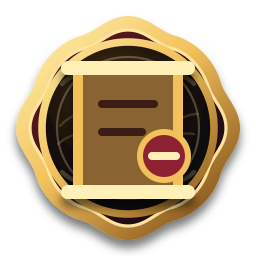
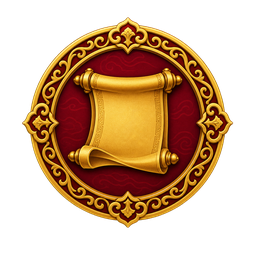
事件美术补改：图标/边框覆盖 + 5 张事件专属插画接线
- 图标/资源/边框原名覆盖：终局/任务/成本/里程/悬赏 图标、驽马/情报/船引 资源图标、战斗边框
- 新增 5 张插画：使用补给/流程中断/流程完成/强行通关/小队攻坚失败
- EventIllustrationPath：RESOURCE_USE 与 PROCESS_INTERRUPT/COMPLETE 分流；FORCED_PASS、SQUAD_FAILED 改走 StreamingAssets 专属插画路径，从 combatIllustrations 数组迁出
- ShowKeyEventIllustration：补 RESOURCE_USE / PROCESS_INTERRUPT 中央卡显示分支
- uitheme_manifest 补 5 条；同步更新接线对照文档为 as-built

diff --git a/Assets/LycheeReplayDemo/LycheeReplayPlayer.cs b/Assets/LycheeReplayDemo/LycheeReplayPlayer.cs
@@ -1644,6 +1644,13 @@ public class LycheeReplayPlayer : MonoBehaviour
             left = ResourceName(payload.resourceType);
             right = "库存更新";
         }
+        else if (type == "RESOURCE_USE")
+        {
+            title = "使用补给";
+            subtitle = team + " 在 " + target + " 施用补给";
+            left = ResourceName(payload.resourceType);
+            right = "资源消耗";
+        }
         else if (type == "PROCESS_START")
         {
             title = "站点处理开始";
@@ -1668,6 +1675,13 @@ public class LycheeReplayPlayer : MonoBehaviour
             left = target;
             right = "继续前进";
             imageIndex = 2;
+        }
+        else if (type == "PROCESS_INTERRUPT")
+        {
+            title = "站点处理中断";
+            subtitle = team + " 在 " + target + " 的处理被打断";
+            left = ActionName(payload.processType);
+            right = "流程受阻";
         }
         else if (type == "SQUAD_DISPATCH")
         {
@@ -1859,10 +1873,10 @@ public class LycheeReplayPlayer : MonoBehaviour
     static bool EventUsesCombatIllustration(string type)
     {
         if (string.IsNullOrEmpty(type)) return false;
-        if (type.StartsWith("FORCED_", StringComparison.Ordinal)) return true;
+        // FORCED_PASS 与 SQUAD_FAILED 现各有专属插画（combat_forced_pass / combat_squad_failed），
+        // 改走 StreamingAssets 插画路径（EventIllustrationPath），不再共用 combatSprites 对抗图集。
         return type == "SQUAD_CLEAR" ||
             type == "SQUAD_CLEAR_SUCCESS" ||
-            type == "SQUAD_FAILED" ||
             type == "OBSTACLE_CLEAR" ||
             type == "GUARD_BREAK";
     }
@@ -3377,10 +3391,15 @@ public class LycheeReplayPlayer : MonoBehaviour
         if (t == "NODE_ENTER") return "Illustrations/card_arrive.png";
         if (t == "TASK_SPAWN" || t == "TASK_REFRESH") return "Illustrations/card_task_post.png";
         if (t == "TASK_COMPLETE") return "Illustrations/card_task_done.png";
-        if (t == "RESOURCE_CLAIM" || t == "RESOURCE_USE") return "Illustrations/card_resource.png";
-        if (t.StartsWith("PROCESS_", StringComparison.Ordinal)) return "Illustrations/card_process.png";
+        if (t == "RESOURCE_USE") return "Illustrations/card_resource_use.png";          // 使用补给：与"获得补给"分流
+        if (t == "RESOURCE_CLAIM") return "Illustrations/card_resource.png";
+        if (t == "PROCESS_INTERRUPT") return "Illustrations/card_process_interrupt.png"; // 流程中断
+        if (t == "PROCESS_COMPLETE") return "Illustrations/card_process_complete.png";    // 流程完成
+        if (t.StartsWith("PROCESS_", StringComparison.Ordinal)) return "Illustrations/card_process.png"; // PROCESS_START/PROGRESS 兜底
+        if (t == "FORCED_PASS_START" || t == "FORCED_PASS_END") return "Illustrations/combat_forced_pass.png"; // 强行通关（专属图，不再共用对抗图集）
         if (t == "SQUAD_DISPATCH") return "Illustrations/card_dispatch.png";
         if (t == "SQUAD_ARRIVE") return "Illustrations/card_squad_arrive.png";
+        if (t == "SQUAD_FAILED") return "Illustrations/combat_squad_failed.png";         // 小队攻坚失败（专属图）
         if (t.StartsWith("SQUAD_", StringComparison.Ordinal)) return "Illustrations/card_squad_arrive.png"; // 其余非对抗小队事件（战术生效等）兜底，避免空白
         if (t == "GUARD_SET") return "Illustrations/card_guard.png";
         if (t == "MATCH_END") return "Illustrations/card_finish.png";

diff --git a/Docs/事件美术补改_生图提示词.md b/Docs/事件美术补改_生图提示词.md
@@ -110,9 +110,10 @@ EN：`a station process completed — sealed lychee baskets loaded onto a covere
 
 ---
 
-## 五、对抗插画（2055×765，D 族）—— **需配合代码 + 场景接线**
+## 五、对抗插画（2055×765，D 族）—— **需配合代码（实际无需场景接线）**
 
-> 现状：对抗结果走场景 `combatIllustrations` 数组，多张结果共用 3 张图、还有一张从没用。补下面两张并扩容接线。
+> 原计划：对抗结果走场景 `combatIllustrations` 数组（多张结果共用 3 张图、还有一张从没用），拟扩容数组 + Inspector 接线。
+> 实际（2026-06-23）：这两张按 **StreamingAssets 原图**交付，改走 `EventIllustrationPath` 插画路径（详见末尾接线对照），**未动 Inspector 数组与场景**。`combat_clash/strategy/result` 三张对抗序列图保持原样。
 
 ### 13. `combat_forced_pass.png` — 强行通关
 中文：信使付"时间税"硬闯关卡，守军无奈侧身放行，红尘扬起、紧张但冲过；区别于"被拒绝"。
@@ -131,13 +132,19 @@ EN：`a squad's assault failing — soldiers retreating in disarray while the ta
 
 ---
 
-## 接线对照（图就位后我改这里）
+## 接线对照（已实现 2026-06-23 · as-built）
 
-| 图 | 处理 |
+> 改动文件仅两处：`Assets/LycheeReplayDemo/LycheeReplayPlayer.cs`、`Assets/StreamingAssets/UITheme/uitheme_manifest.txt`。
+> 全部走 StreamingAssets 运行时加载（`LycheeThemeCache.LoadBytes`），中央弹窗在 `ShowKeyEventIllustration` → `ResolveEventIllustration` → `EventIllustrationPath` 取图。
+
+| 图 | 实际接线 |
 |---|---|
-| 1–9（图标/资源/边框，原名覆盖） | **零改代码**，覆盖即生效 |
-| 10 `card_resource_use` | `EventIllustrationPath` 加 `RESOURCE_USE` 分支 |
-| 11 `card_process_interrupt` | 加 `PROCESS_INTERRUPT` 分支 |
-| 12 `card_process_complete` | 加 `PROCESS_COMPLETE` 分支 |
-| 13/14 对抗图 | 扩 `combatIllustrations` 数组 + 场景 Inspector 接线 + `imageIndex` 逻辑 |
-| 全部新图 | 加进 `uitheme_manifest.txt`（或重新构建自动扫入） |
+| 1–9（图标/资源/边框，原名覆盖） | **零改代码**，覆盖即生效（git 已显示为 modified） |
+| 10 `card_resource_use` | `EventIllustrationPath`：`RESOURCE_USE`→`card_resource_use.png`（与 `RESOURCE_CLAIM`→`card_resource.png` 分流）。**另在 `ShowKeyEventIllustration` 新增 `RESOURCE_USE` 显示分支**——原先无分支、中央卡根本不触发（这也是为何旧表以为它已显示） |
+| 11 `card_process_interrupt` | `EventIllustrationPath`：`PROCESS_INTERRUPT`→`card_process_interrupt.png`（置于 `PROCESS_` 兜底前）。**另在 `ShowKeyEventIllustration` 新增 `PROCESS_INTERRUPT` 显示分支**——原先无分支 |
+| 12 `card_process_complete` | `EventIllustrationPath`：`PROCESS_COMPLETE`→`card_process_complete.png`（置于 `PROCESS_` 兜底前）。显示分支本就存在 |
+| 13/14 对抗图 | **未用 Inspector `combatIllustrations` 数组**（素材按 StreamingAssets 原图交付）。`EventIllustrationPath` 加 `FORCED_PASS_START/END`→`combat_forced_pass.png`、`SQUAD_FAILED`→`combat_squad_failed.png`，并把这两类从 `EventUsesCombatIllustration` 移除 → 走 `imageIndex=-1` 的专属插画路径。`combat_clash/strategy/result` 三张对抗序列图未动、场景未改 |
+| 全部新图 | 已加进 `uitheme_manifest.txt`（5 条，`StringComparer.Ordinal` 顺序）。桌面/编辑器直接读 StreamingAssets；WebGL 构建 `GenerateThemeManifest` 会自动重扫覆盖该清单 |
+
+> 兜底保留未动：`PROCESS_START/PROGRESS`→`card_process.png`、`RESOURCE_CLAIM`→`card_resource.png`、`SQUAD_` 其余→`card_squad_arrive.png`。
+> 注：`RESOURCE_USE` 现每次都会弹中央卡，若实测刷屏可仿 `PROCESS_PROGRESS` 的 `ShouldShowProcessProgressCard` 加节流。
